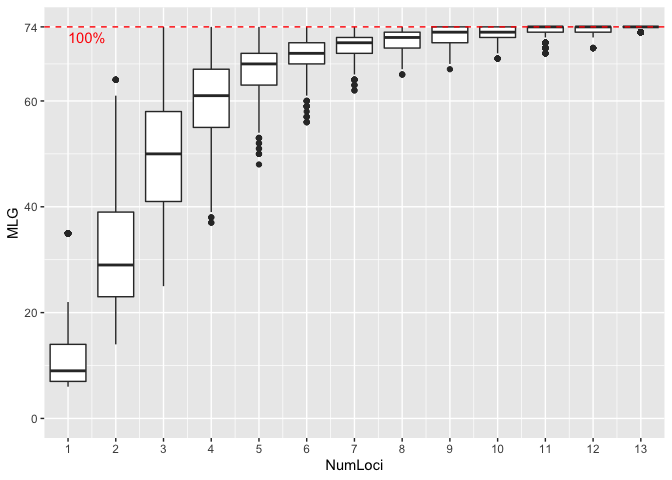
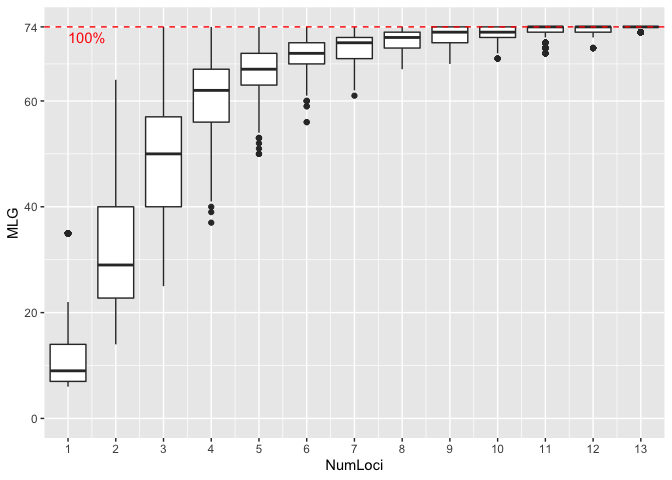
update

diff --git a/GenotypeAccum.md b/GenotypeAccum.md
@@ -91,32 +91,33 @@ print(no.mlg.poppr)
 poppr(nameko.SSR.subpop.genclone)
 ```
 
-    ##                            Pop   N MLG  eMLG    SE     H     G lambda   E.5
-    ## 1                     Hokkaido   3   3  3.00 0.000 1.099  3.00  0.667 1.000
-    ## 2                       Aomori   7   7  7.00 0.000 1.946  7.00  0.857 1.000
-    ## 3                        Iwate   2   2  2.00 0.000 0.693  2.00  0.500 1.000
-    ## 4                        Akita   2   2  2.00 0.000 0.693  2.00  0.500 1.000
-    ## 5                       Miyagi   5   3  3.00 0.000 0.950  2.27  0.560 0.802
-    ## 6                     Yamagata  14  14 10.00 0.000 2.639 14.00  0.929 1.000
-    ## 7                      Niigata   5   5  5.00 0.000 1.609  5.00  0.800 1.000
-    ## 8                    Fukushima  13  11  8.69 0.657 2.311  8.89  0.888 0.869
-    ## 9                       Toyama   1   1  1.00 0.000 0.000  1.00  0.000   NaN
-    ## 10                       Fukui   5   2  2.00 0.000 0.500  1.47  0.320 0.725
-    ## 11                      Nagano   9   7  7.00 0.000 1.889  6.23  0.840 0.932
-    ## 12                     Tottori   2   2  2.00 0.000 0.693  2.00  0.500 1.000
-    ## 13                       Kochi   5   2  2.00 0.000 0.500  1.47  0.320 0.725
-    ## 14        Cultivar.sawdust.JPN  39   8  4.79 0.991 1.678  4.21  0.763 0.738
-    ## 15            Cultivar.log.JPN   8   3  3.00 0.000 0.736  1.68  0.406 0.630
-    ## 16 Cultivar.sawdust.x.wild.JPN   1   1  1.00 0.000 0.000  1.00  0.000   NaN
-    ## 17                Cultivar.CHN   2   2  2.00 0.000 0.693  2.00  0.500 1.000
-    ## 18                       Total 123  74  8.97 0.965 3.901 28.17  0.965 0.561
+    ##                            Pop   N MLG  eMLG       SE     H     G lambda   E.5
+    ## 1                     Hokkaido   3   3  3.00 0.00e+00 1.099  3.00  0.667 1.000
+    ## 2                       Aomori   7   7  7.00 0.00e+00 1.946  7.00  0.857 1.000
+    ## 3                        Iwate   2   2  2.00 0.00e+00 0.693  2.00  0.500 1.000
+    ## 4                        Akita   2   2  2.00 0.00e+00 0.693  2.00  0.500 1.000
+    ## 5                       Miyagi   4   2  2.00 0.00e+00 0.562  1.60  0.375 0.795
+    ## 6                     Yamagata  15  15 10.00 2.77e-07 2.708 15.00  0.933 1.000
+    ## 7                      Niigata   5   5  5.00 0.00e+00 1.609  5.00  0.800 1.000
+    ## 8                    Fukushima  13  11  8.69 6.57e-01 2.311  8.89  0.888 0.869
+    ## 9                       Toyama   1   1  1.00 0.00e+00 0.000  1.00  0.000   NaN
+    ## 10                       Fukui   5   2  2.00 0.00e+00 0.500  1.47  0.320 0.725
+    ## 11                      Nagano   9   7  7.00 0.00e+00 1.889  6.23  0.840 0.932
+    ## 12                     Tottori   2   2  2.00 0.00e+00 0.693  2.00  0.500 1.000
+    ## 13                       Kochi   5   2  2.00 0.00e+00 0.500  1.47  0.320 0.725
+    ## 14        Cultivar.sawdust.JPN  39   8  4.79 9.91e-01 1.678  4.21  0.763 0.738
+    ## 15            Cultivar.log.JPN   7   3  3.00 0.00e+00 0.796  1.81  0.449 0.669
+    ## 16 Cultivar.sawdust.x.wild.JPN   1   1  1.00 0.00e+00 0.000  1.00  0.000   NaN
+    ## 17        Cultivar.sawdust.CHN   2   2  2.00 0.00e+00 0.693  2.00  0.500 1.000
+    ## 18            Cultivar.log.CHN   1   1  1.00 0.00e+00 0.000  1.00  0.000   NaN
+    ## 19                       Total 123  74  8.97 9.65e-01 3.901 28.17  0.965 0.561
     ##     Hexp      Ia    rbarD                       File
     ## 1  0.476 -0.4615 -0.05556 nameko.SSR.subpop.genclone
     ## 2  0.547 -0.0626 -0.00499 nameko.SSR.subpop.genclone
     ## 3  0.238      NA       NA nameko.SSR.subpop.genclone
     ## 4  0.488      NA       NA nameko.SSR.subpop.genclone
-    ## 5  0.368  6.2055  0.77034 nameko.SSR.subpop.genclone
-    ## 6  0.553 -0.1906 -0.01500 nameko.SSR.subpop.genclone
+    ## 5  0.283  6.1429  1.00000 nameko.SSR.subpop.genclone
+    ## 6  0.556 -0.2158 -0.01694 nameko.SSR.subpop.genclone
     ## 7  0.568  0.2434  0.02186 nameko.SSR.subpop.genclone
     ## 8  0.557  1.3561  0.10713 nameko.SSR.subpop.genclone
     ## 9  0.500      NA       NA nameko.SSR.subpop.genclone
@@ -125,7 +126,8 @@ poppr(nameko.SSR.subpop.genclone)
     ## 12 0.429      NA       NA nameko.SSR.subpop.genclone
     ## 13 0.292  6.3636  1.00000 nameko.SSR.subpop.genclone
     ## 14 0.128  0.6951  0.17881 nameko.SSR.subpop.genclone
-    ## 15 0.336  8.7753  0.84685 nameko.SSR.subpop.genclone
+    ## 15 0.360  8.6913  0.83669 nameko.SSR.subpop.genclone
     ## 16 0.429      NA       NA nameko.SSR.subpop.genclone
     ## 17 0.298      NA       NA nameko.SSR.subpop.genclone
-    ## 18 0.473  1.7411  0.13540 nameko.SSR.subpop.genclone
+    ## 18 0.286      NA       NA nameko.SSR.subpop.genclone
+    ## 19 0.473  1.7411  0.13540 nameko.SSR.subpop.genclone

diff --git a/GeneticDiversity.md b/GeneticDiversity.md
@@ -18,7 +18,7 @@ library(strataG) #for performing M-ratio
 rm(list = ls())
 
 # Loading data set
-nameko.raw <- read.csv("MLG_Pmicro_123samples.csv",header=T)
+nameko.raw <- read.csv("MLG_Pmicro_124samples.csv",header=T)
 
 # define locus name
 locus.names <- unique(str_sub(colnames(nameko.raw)[-c(1:4)],end=-2))
@@ -262,7 +262,7 @@ print(apply(AR.out$Ar,2,mean))
 ```
 
     ##      Cultivar.others Cultivar.sawdust.JPN                 Wild 
-    ##             2.785714             1.353985             3.322446
+    ##             2.785714             1.353985             3.306453
 
 ``` r
 cat("Allelic richness: SE\n")
@@ -275,7 +275,7 @@ print(apply(AR.out$Ar,2,std_mean))
 ```
 
     ##      Cultivar.others Cultivar.sawdust.JPN                 Wild 
-    ##            0.2997906            0.1317393            0.2687665
+    ##            0.2997906            0.1317393            0.2672627
 
 ``` r
 cat("\n")
@@ -291,7 +291,7 @@ cat("Allelic richness across overall: mean\n")
 print(apply(AR.overall.out$Ar,2,mean)[[1]])
 ```
 
-    ## [1] 3.237975
+    ## [1] 3.226165
 
 ``` r
 cat("Allelic richness across overall: SE\n")
@@ -303,7 +303,7 @@ cat("Allelic richness across overall: SE\n")
 print(apply(AR.overall.out$Ar,2,std_mean)[[1]])
 ```
 
-    ## [1] 0.2768401
+    ## [1] 0.2759146
 
 ``` r
 cat("\n")
@@ -322,7 +322,7 @@ print(Ho.out)
 ```
 
     ##      Cultivar.others Cultivar.sawdust.JPN                 Wild 
-    ##            0.4285714            0.1785714            0.3583357
+    ##            0.4285714            0.1785714            0.3524571
 
 ``` r
 cat("Observed heterozygosity across overall\n")
@@ -334,7 +334,7 @@ cat("Observed heterozygosity across overall\n")
 print(Ho(nameko.SSR.MLG.overall.genind)[[1]])
 ```
 
-    ## [1] 0.34345
+    ## [1] 0.3387929
 
 ``` r
 cat("\n")
@@ -353,7 +353,7 @@ print(Hs.out)
 ```
 
     ##      Cultivar.others Cultivar.sawdust.JPN                 Wild 
-    ##            0.4714286            0.1506696            0.5611409
+    ##            0.4714286            0.1506696            0.5580393
 
 ``` r
 cat("Expected heterozygosity across overall\n")
@@ -365,7 +365,7 @@ cat("Expected heterozygosity across overall\n")
 print(Hs(nameko.SSR.MLG.overall.genind)[[1]])
 ```
 
-    ## [1] 0.5366123
+    ## [1] 0.5344295
 
 ``` r
 cat("\n")
